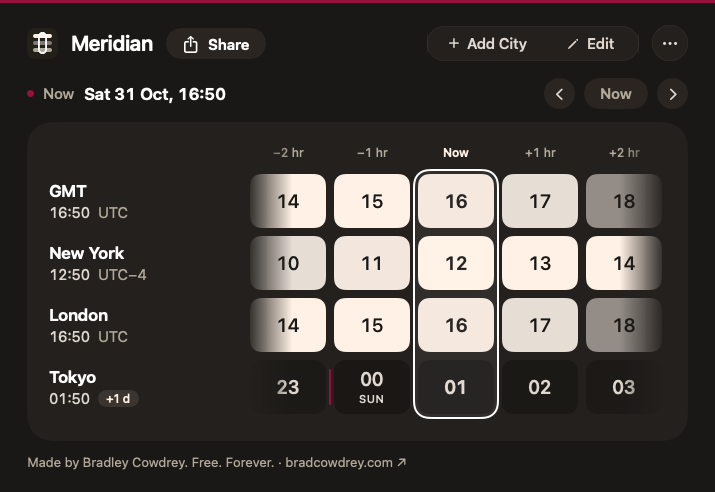
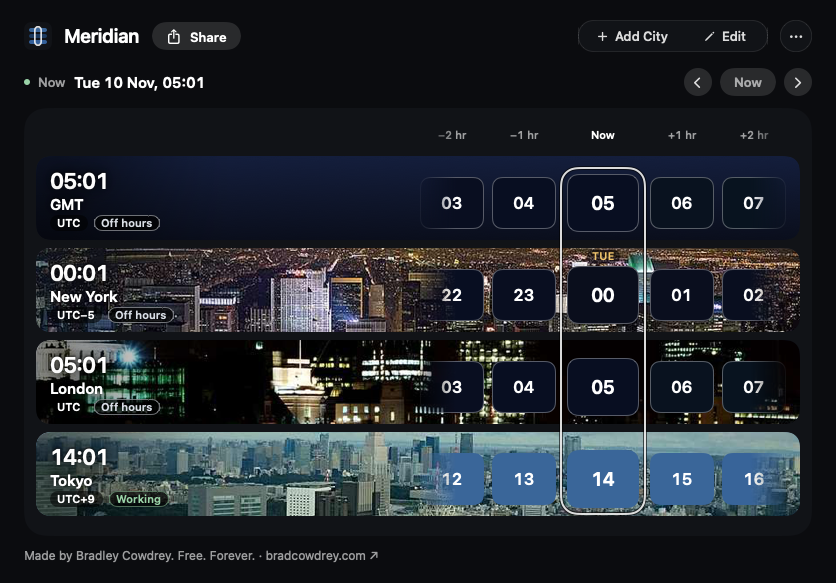
README: fresh screenshots of the Mac panel and widgets from CI (the new look, skylines framed)
Claude-Session: https://claude.ai/code/session_017skvj53xL2N8Uyf5iFp8gG

diff --git a/README.md b/README.md
@@ -14,7 +14,7 @@ Made by <a href="https://bradcowdrey.com">Bradley Cowdrey · bradcowdrey.com</a>
 </p>
 
 <p align="center">
-  <a href="https://bradcowdrey.com/meridian"><img src="docs/demo.png" width="715" alt="Meridian: cities as day-and-night ribbons on one time grid, with the current hour outlined. Click to try it in your browser."></a><br>
+  <a href="https://bradcowdrey.com/meridian"><img src="docs/demo.png" width="715" alt="Meridian on Mac: each city on a photo of its skyline, by day or by night there, with its time, status and hour tiles, and one outline down the current hour. Click to try it in your browser."></a><br>
   <sub>Click the picture to try the live demo at <a href="https://bradcowdrey.com/meridian">bradcowdrey.com/meridian</a>.</sub>
 </p>
 
@@ -92,7 +92,7 @@ Native SwiftUI, universal binary (Apple silicon + Intel), macOS 14 Sonoma or lat
 
 ## Desktop widget
 
-<p align="center"><img src="docs/widgets.png" width="760" alt="Meridian's large, medium and small desktop widgets showing cities, times and day-and-night hour tiles"></p>
+<p align="center"><img src="docs/widgets.png" width="760" alt="Meridian's large, medium and small Mac widgets: each city on its skyline photo with its time and hour tiles, the current hour outlined"></p>
 
 Add Meridian to your desktop or Notification Center in three sizes: small (one city), medium (two cities) and large (four cities), each showing the hour before, now and the hour after as day-and-night tiles. It follows the cities and order you set in the app, or right-click it, choose **Edit Widget** and turn off **Use Meridian's Cities** to pick its own. Right-click the desktop, choose **Edit Widgets**, then search for **Meridian**. If it isn't listed, open Meridian from Applications, choose Settings → **Refresh Widgets**, then close and reopen Edit Widgets.
 
